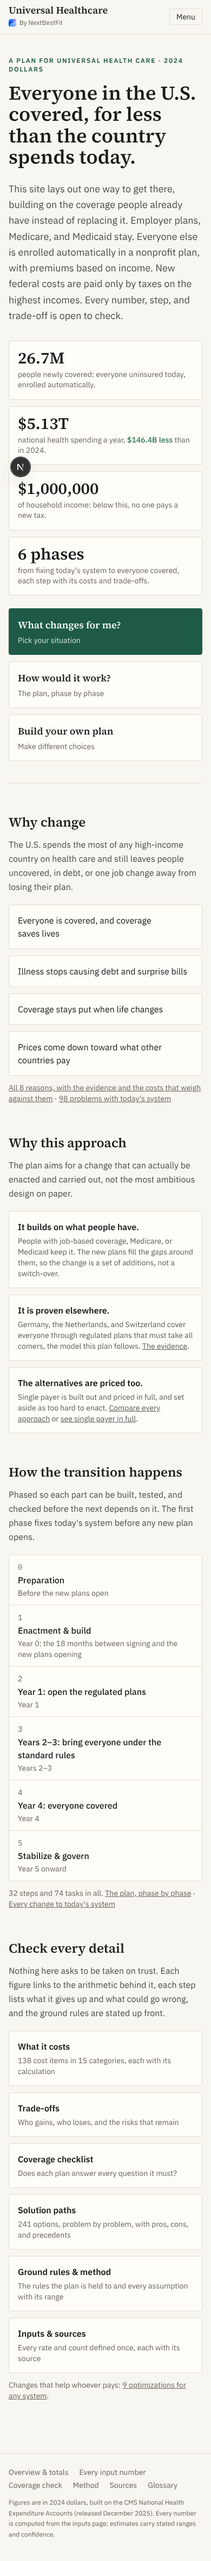
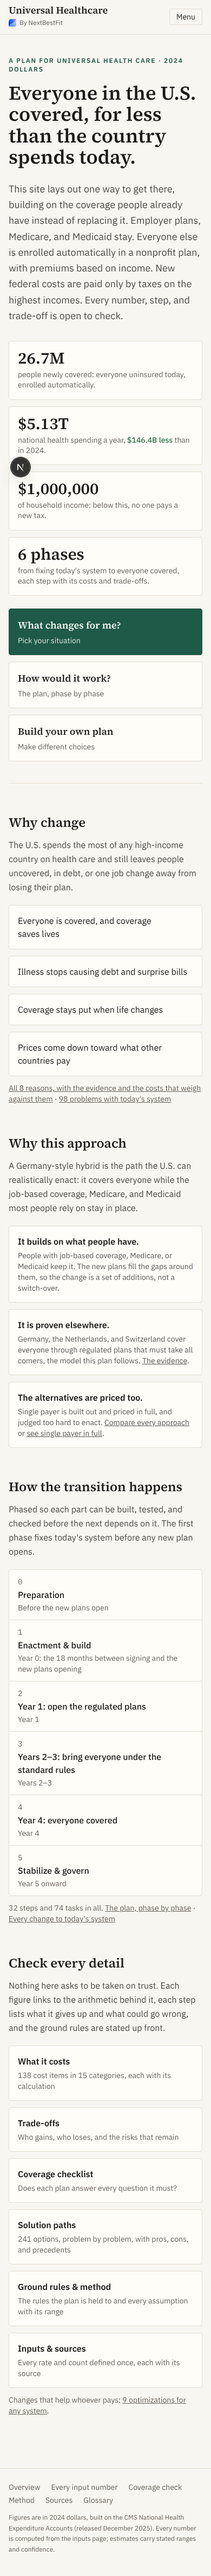
Frame the hybrid as the enactable plan
Replace the "Apolitical" ground rule with "It has to be enactable", drop
"political feasibility is deliberately set aside" from the plan index, and
say on the home page that the Germany-style hybrid is the path the U.S. can
realistically enact.

Claude-Session: https://claude.ai/code/session_01FiWn7beeubrtet8vDGfzhB

diff --git a/apps/website/src/app/page.tsx b/apps/website/src/app/page.tsx
@@ -153,7 +153,7 @@ export default function Home() {
       <Section
         id="approach"
         title="Why this approach"
-        intro="The plan aims for a change that can actually be enacted and carried out, not the most ambitious design on paper."
+        intro="A Germany-style hybrid is the path the U.S. can realistically enact: it covers everyone while the job-based coverage, Medicare, and Medicaid most people rely on stay in place."
       >
         <ol className="grid gap-3 sm:grid-cols-3">
           <li className="rounded-md border border-rule bg-card p-4">
@@ -177,7 +177,7 @@ export default function Home() {
           <li className="rounded-md border border-rule bg-card p-4">
             <div className="font-semibold">The alternatives are priced too.</div>
             <p className="mt-1 text-sm text-foreground/75">
-              Single payer is built out and priced in full, and set aside as too hard to enact.{" "}
+              Single payer is built out and priced in full, and judged too hard to enact.{" "}
               <Link href="/approaches" className="underline">
                 Compare every approach
               </Link>{" "}

diff --git a/apps/website/src/lib/plan/views/plan-index.tsx b/apps/website/src/lib/plan/views/plan-index.tsx
@@ -19,7 +19,7 @@ export function planIndexRoute(variant: PlanVariant, summary?: () => ReactNode) 
         <PageHeader
           eyebrow="How it would happen"
           title="Phase by phase"
-          lede="Every change to the system, grouped into phases. Each change has its tasks, design choices and alternatives, costs with calculations, trade-offs, risks, the existing laws and institutions it affects, and comparisons with other countries. Political feasibility is deliberately set aside."
+          lede="Every change to the system, grouped into phases. Each change has its tasks, design choices and alternatives, costs with calculations, trade-offs, risks, the existing laws and institutions it affects, and comparisons with other countries, including the political and legal risks to getting it enacted."
         />
         <PlanVersionNotice variant={variant} />
         {summary?.()}

diff --git a/apps/website/src/app/method/page.tsx b/apps/website/src/app/method/page.tsx
@@ -35,8 +35,8 @@ const GROUND_RULES: [string, string][] = [
     "Each step and each cost item states its own.",
   ],
   [
-    "Apolitical.",
-    "Legislative feasibility, filibusters, and court challenges are set aside; the question is what works.",
+    "It has to be enactable.",
+    "The plan builds on employer coverage, Medicare, and Medicaid instead of replacing them, and each step lists its political and legal risks next to its costs.",
   ],
   [
     "Experiments and transitions are fine.",
